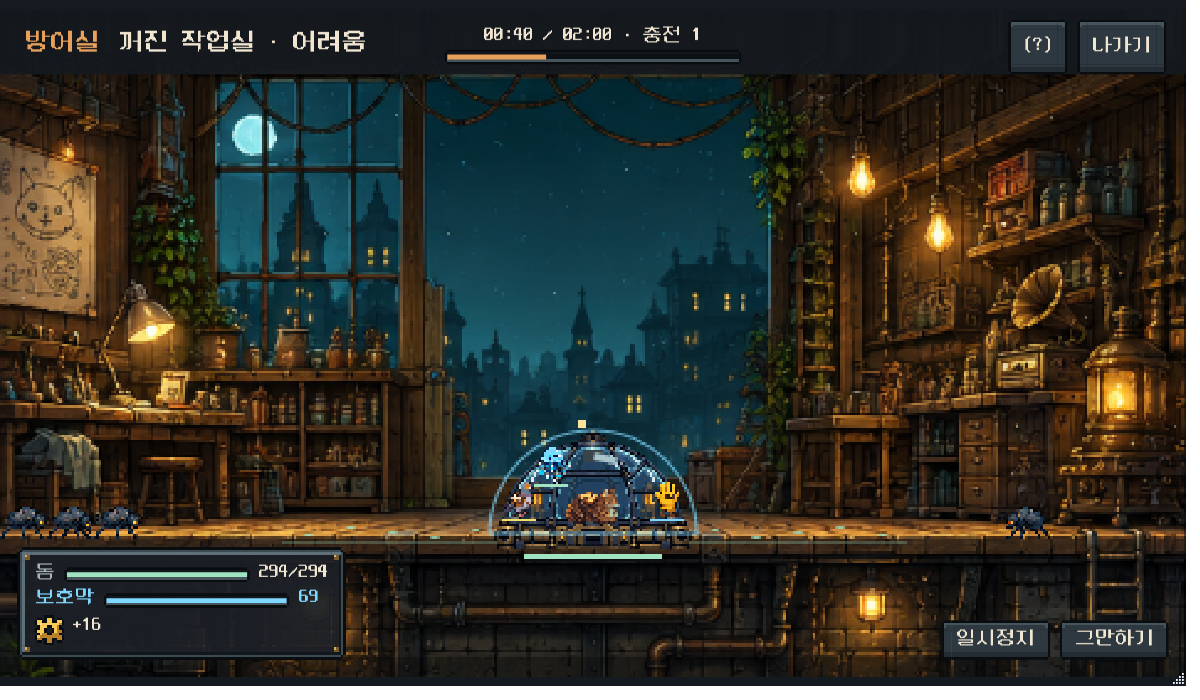
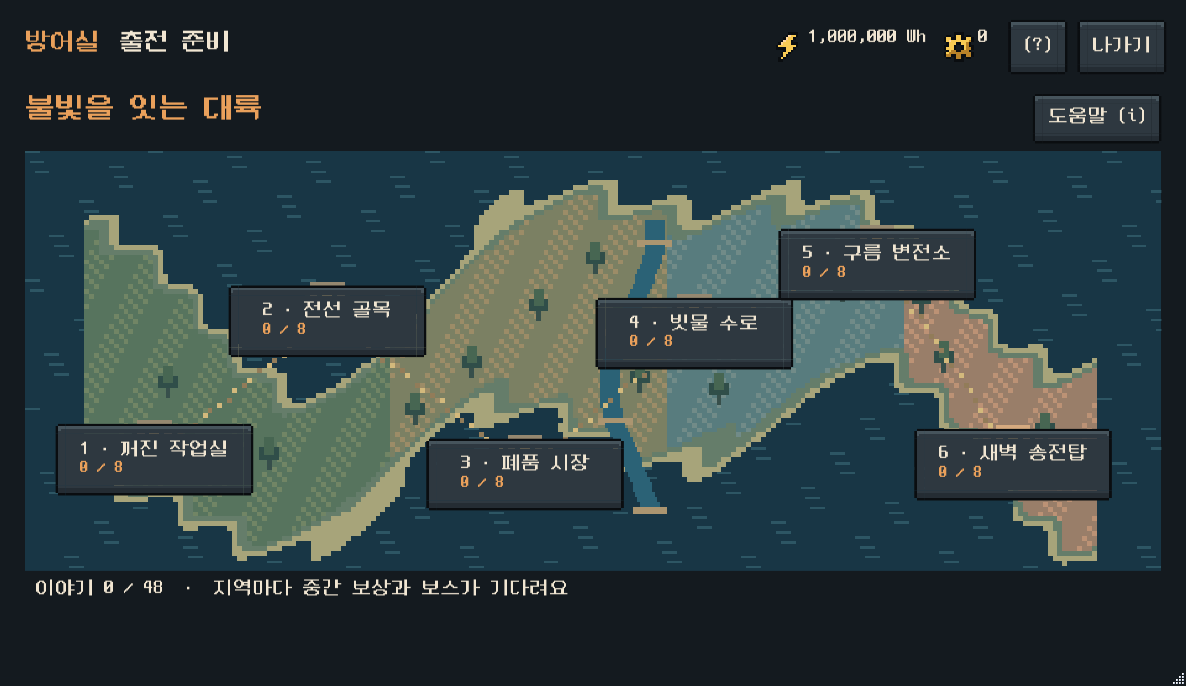
Publish 0.6.0 catalog and 48-battle campaign

diff --git a/src.html b/src.html
@@ -22,7 +22,7 @@
 </section>
 <div class="caption wrap">작업실 애셋을 활용한 소개 연출 · 바탕화면 친구는 실사 기반 포즈로 움직여요.</div>
 <section class="about wrap" id="about" aria-labelledby="about-title"><div class="section-heading"><h2 id="about-title">할 일을 하는 동안,<br>작은 세계가 자라요.</h2><p>처음에는 고양이 하나와 0 Wh.<br>서두르지 않고, 당신의 속도로 시작해요.</p></div><div class="features"><article><span class="feature-icon" aria-hidden="true">⌨</span><h3>일상이 에너지로</h3><p>키보드와 스크롤 활동으로 Wh를 모아요. 입력이 없을 때는 쉬고, 빠른 타이핑에는 잠깐의 피버가 찾아와요.</p></article><article><img src="/assets/hamster.png" alt="" width="64" height="64"><h3>친구가 하나둘</h3><p>뽑기 친구 60종과 지역 클리어로 구조하는 전용 친구 6종. 동물부터 엉뚱한 사물까지, 작업실이 북적여요.</p></article><article><img src="/assets/saturn.png" alt="" width="64" height="64"><h3>함께 지키는 방어실</h3><p>48,000 Wh로 방어실을 열어요. 친구 셋과 장비·작전을 준비하고, 6지역 × 4난이도의 생존과 보스 전투에 도전해요.</p></article></div>
-<div class="screens"><figure><img src="/assets/roster.png" width="1100" height="748" loading="lazy" alt="친구 12명을 한 번에 보고 이름·등급·초월 여부로 찾는 로비 화면"><figcaption>친구 12명을 한눈에</figcaption></figure><figure><img src="/assets/defense.png" loading="lazy" alt="방어실에서 친구들과 돔을 지키는 실제 전투 화면"><figcaption>친구들과 함께 지키는 방어실</figcaption></figure></div><p class="screen-note">로비는 0.5.2, 방어실은 0.5.1 소스 기준 격리 검증 화면입니다. 친구와 진행 상태는 플레이에 따라 달라져요.</p></section>
+<div class="screens"><figure><img src="/assets/roster.png" width="1100" height="748" loading="lazy" alt="큰 초상 카드에 별과 조각을 표시하고 이름·등급·초월 여부로 찾는 친구 도감 화면"><figcaption>큰 초상과 별·조각을 한눈에</figcaption></figure><figure><img src="/assets/defense.png" loading="lazy" alt="여섯 지역을 선택하는 도트 대륙 지도 화면"><figcaption>도트 대륙에서 고르는 다음 전투</figcaption></figure></div><p class="screen-note">도감과 방어실은 0.6.0 소스 기준 격리 검증 화면입니다. 친구와 진행 상태는 플레이에 따라 달라져요.</p></section>
 <section class="updates wrap" id="updates" aria-labelledby="updates-title"><div class="section-heading"><h2 id="updates-title">발전소 소식</h2><p>조금씩 더 좋은 이웃이 되어가는 중.</p></div><div class="release-list">{{NOTES}}</div></section>
 <section class="download-section wrap" id="download" aria-labelledby="download-title"><div class="download-copy"><img src="/assets/cat.png" width="92" height="92" alt=""><h2 id="download-title">우리, 바탕화면에서 만나요.</h2><p>{{STATUS}}</p><div class="download-meta"><span>v{{VERSION}} {{LABEL}}</span><span>Windows · ZIP {{SIZE}}</span><span>{{DATE}}</span></div>{{BUTTON}}<p class="requirement">Windows / .NET Framework 4.x 필요 · macOS·모바일 미지원</p>{{HASH}}</div><div class="install"><h3>시작하는 방법</h3><ol><li><strong>ZIP 파일을 다운로드해요.</strong><span>업데이트 전에는 실행 중인 게임을 트레이에서 종료해 주세요.</span></li><li><strong>새 폴더에 전부 압축 해제해요.</strong><span>실행 파일과 assets 폴더를 함께 두세요.</span></li><li><strong>CatPower-v{{VERSION}}.exe를 실행해요.</strong><span>기존 저장은 같은 Windows 사용자 계정에서 이어집니다.</span></li></ol></div></section>
 <section class="faq wrap" aria-labelledby="faq-title"><h2 id="faq-title">궁금할 수 있는 것들</h2><details><summary>내가 입력하는 내용도 기록하나요?</summary><p>게임은 전역 입력의 활동 종류와 횟수만 사용해요. 키 내용, 클립보드, 앱 사용 기록은 저장하지 않아요.</p></details><details><summary>업데이트하면 진행 상황은 어떻게 되나요?</summary><p>저장은 게임 폴더와 별도로 %LOCALAPPDATA%/CatPower/companion-reboot/save.json에 보관돼요. 0.1.2 이후 호환 저장을 이어받으며, 개발판 업데이트 전에는 이 파일을 복사해 보관하는 것을 권장해요. 재설계 이전 1.x 저장은 승계하지 않아요.</p></details><details><summary>움직임을 멈출 수 있나요?</summary><p>설정의 움직임 줄이기를 켜면 회전과 피버 연출이 정적으로 표시돼요. 일시정지로 잠시 쉬게 할 수도 있어요.</p></details><details><summary>Windows에서 실행 경고가 나와요.</summary><p>개발판은 코드 서명이 없어 Windows에서 경고가 표시될 수 있어요. 다운로드 출처와 위의 SHA-256 해시를 확인하고, 출처를 확인할 수 없다면 실행하지 마세요.</p></details></section>

diff --git a/README.md b/README.md
@@ -51,3 +51,6 @@
 ## 0.5.2 운영 메모
 
 이름/부제 변경, 동일한 정확한 Wh 표시, 초월 가능 인원과 필터 진입 보완. CatPower 실행 파일 및 저장 경로는 유지한다. 로비 캡처는 0.5.2로 교체했으며 방어실 캡처는 여전히 0.5.1 기준이다. 확정된 거점/도감/지도/48전투 재설계는 이번 배포 기능에 포함하지 않는다.
+## 0.6.0 운영 메모
+
+거점 먼저 + 별도 큰 카드 도감, 도트 대륙과 단계별 방어실, 6지역×8 기본 전투, 중간 큐브/지역 동료 해금, 수집·강화 목표와 승리 편성 재사용을 포함한다. 기존 고난도·특별·무한 도전은 별도 선택한다. 저장8/Campaign2, 최초 저장 전 save.json.pre-0.6.0-save8.bak를 보존한다. 이전 배포 파일과 친구·재화·장비·해금·옛 기록은 유지한다. 새로운 48기록은 자동 완료하지 않는다. 도감/대륙 캡처는 이번 격리 QA 실행 화면이다.
